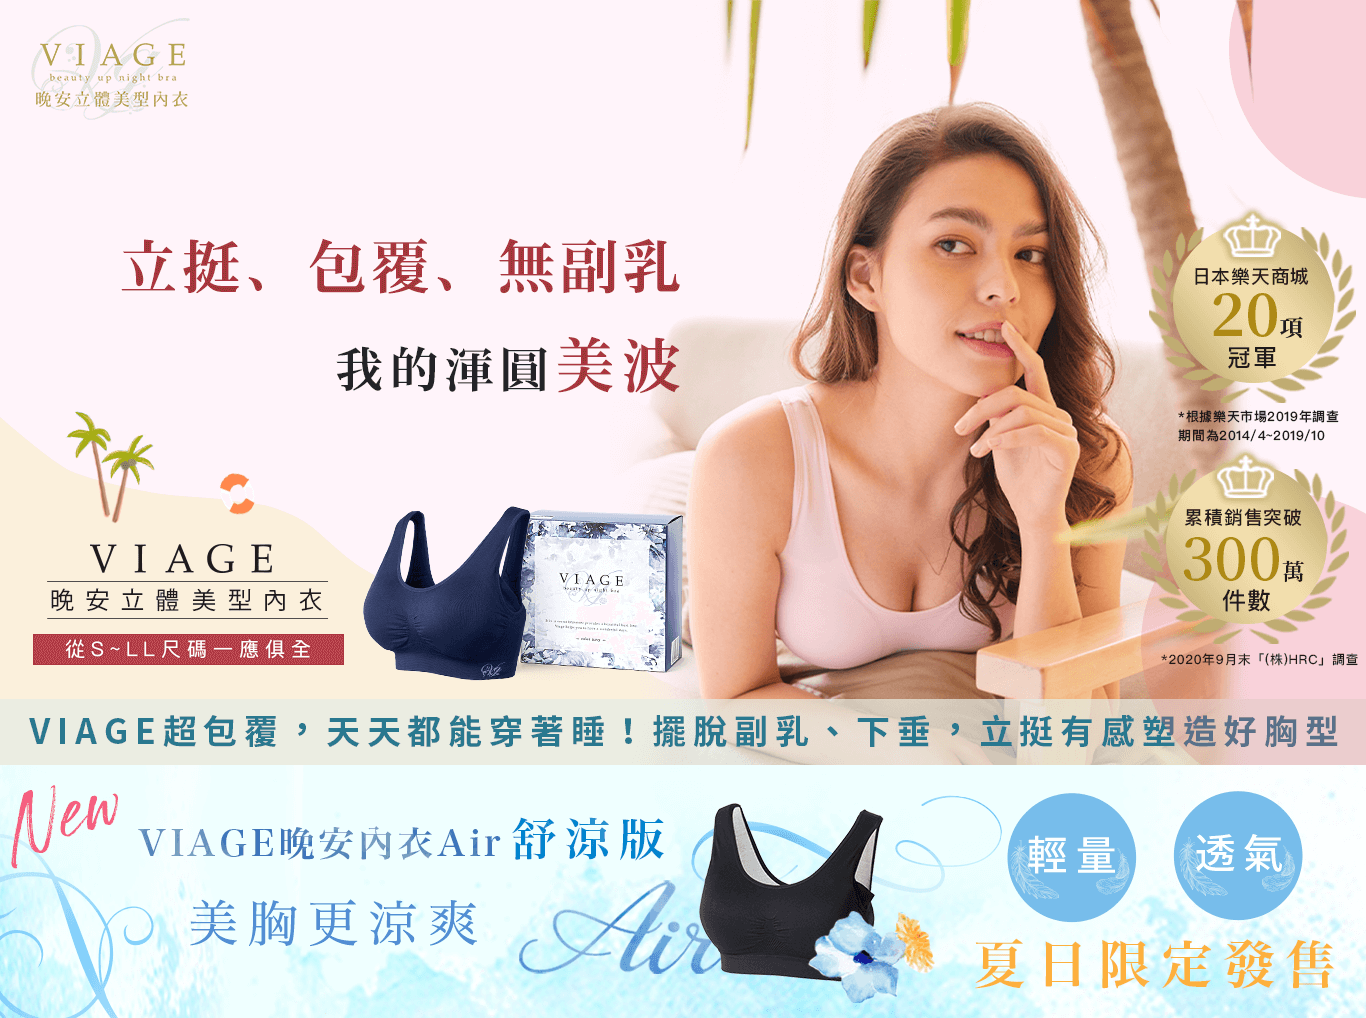
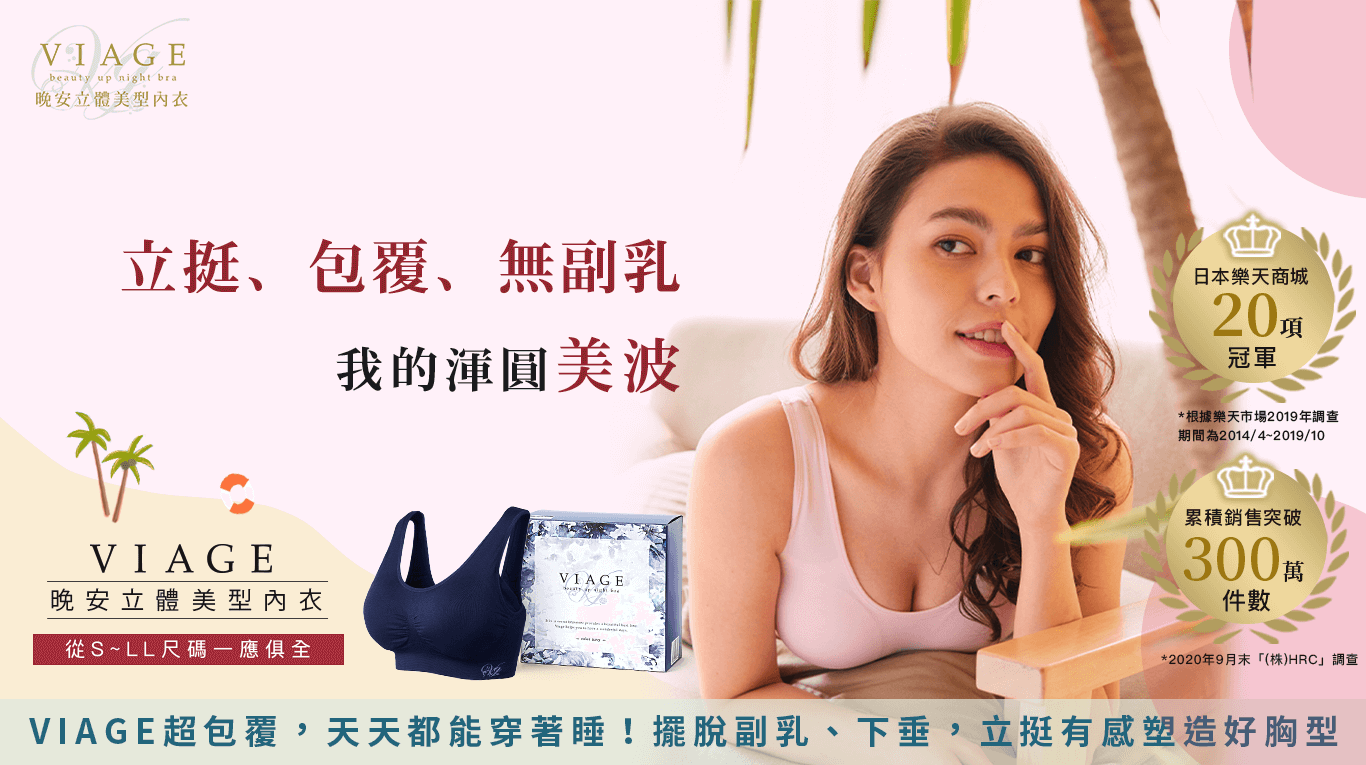
20210715_delete air

diff --git a/index.html b/index.html
@@ -150,8 +150,6 @@
                     </div>
                 </section>
                 <div class="PC">
-                    <img src="./img/air_01.png" style="width:70%;" alt="">
-                    <img src="./img/air_02.png" style="width:70%;" alt="">
                     <div class="offerbox">
                         <img src="./img/05.png" style="width:70%;" alt="">
                         <a href="#size">
@@ -187,8 +185,6 @@
                     <img src="./img/19.jpg" style="width:70%;" alt="">
                 </div>
                 <div class="SP">
-                    <img src="./img/SP/SP_air_01.png"  alt="">
-                    <img src="./img/SP/SP_air_02.png"  alt="">
                     <div class="offerbox_m">
                         <img src="./img/SP/SP_05.png" alt="">
                         <a href="#size">
